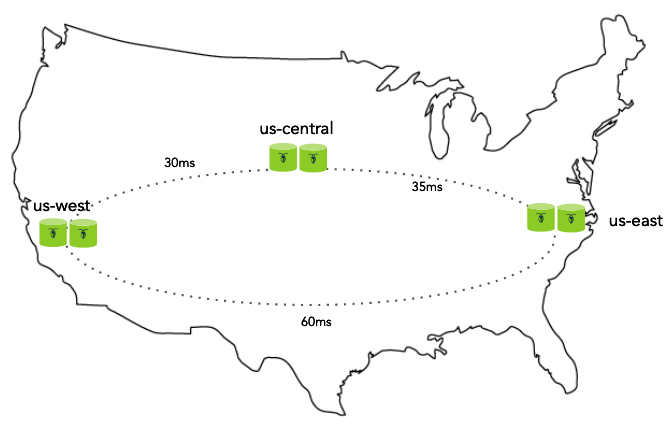
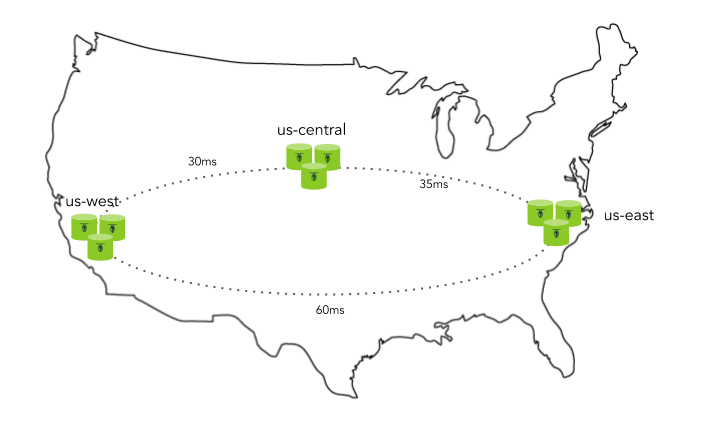
Multi-region topology pattern corrections
- Updates map image to show 3 nodes per region
- Corrects configuration bullet

Fixes #4578.

diff --git a/v19.1/cluster-topology-patterns.md b/v19.1/cluster-topology-patterns.md
@@ -25,7 +25,7 @@ This page does not factor in hardware differences.
 
 This first example is of a single-datacenter cluster, with each node on a different machine as per our [basic topology recommendations](recommended-production-settings.html#basic-topology-recommendations). This pattern is common starting point for smaller organizations who may not have the resources (or need) to worry about a datacenter failure but still want to take advantage of CockroachDB's [high availability](high-availability.html).
 
-<img src="{{ 'images/v19.1/topology-patterns/basic-local-deployment.png' | relative_url }}" alt="Local deployment" style="border:1px solid #eee;max-width:100%" />
+<img src="{{ 'images/v19.1/topology-patterns/basic-local-deployment.png' | relative_url }}" alt="Local deployment" style="max-width:100%" />
 
 For the diagram above:
 
@@ -54,7 +54,7 @@ While the [basic single-datacenter deployment](#single-datacenter-basic-pattern)
 
 There are no constraints on node increments.
 
-<img src="{{ 'images/v19.1/topology-patterns/local-scaling.png' | relative_url }}" alt="Resilient local deployment" style="border:1px solid #eee;max-width:100%" />
+<img src="{{ 'images/v19.1/topology-patterns/local-scaling.png' | relative_url }}" alt="Resilient local deployment" style="max-width:100%" />
 
 ## Multi-region clusters
 
@@ -62,13 +62,13 @@ There are no constraints on node increments.
 
 Once an organization begins to grow, a datacenter outage isn't acceptable and a cluster needs to be available all of the time. This is where a multi-region cluster is useful. A multi-region cluster is comprised of multiple datacenters in different regions (e.g., `us-east`, `us-west`), each with multiple nodes. CockroachDB will automatically try to diversify replica placement across localities (i.e., place a replica in each region). This setup can be used when your application is not SLA-sensitive, or you do not care about write performance. With this cluster pattern, many organizations will consider transitioning to using a variety of cloud providers (one provider per region).
 
-In this example, the cluster has an asymmetrical setup where `Central` is closer to the `West` than the `East`. This configuration will provide better write latency to the write workloads in the `West` and `Central` because there is a lower latency (versus writing in the `East`).
+In this example, the cluster has an asymmetrical setup where `us-central` is closer to the `us-west` than the `us-east`. This configuration will provide better write latency to the write workloads in `us-west` and `us-central` because there is a lower latency (versus writing in the `us-east`).
 
-<img src="{{ 'images/v19.1/topology-patterns/basic-multi-region.png' | relative_url }}" alt="Basic pattern for multi-region" style="border:1px solid #eee;max-width:100%" />
+<img src="{{ 'images/v19.1/topology-patterns/basic-multi-region.png' | relative_url }}" alt="Basic pattern for multi-region" style="max-width:100%" />
 
 Each region has 3 nodes across 3 datacenters and does not use partitioning:
 
-<img src="{{ 'images/v19.1/topology-patterns/basic-multi-region-layout.png' | relative_url }}" alt="Basic pattern for multi-region" style="border:1px solid #eee;max-width:100%" />
+<img src="{{ 'images/v19.1/topology-patterns/basic-multi-region-layout.png' | relative_url }}" alt="Basic pattern for multi-region" style="max-width:100%" />
 
 For this example:
 
@@ -77,8 +77,8 @@ For this example:
 - `App` is an application that accesses CockroachDB.
 - `Load Balancer`s are software-based load balancers that direct traffic to each of the regions' nodes at random.
 - Leaseholders are denoted by a dashed line.
-- 6 Nodes are spread across 3 regions (`us-west`, `us-central`, `us-east`) within a country (`us`).
-- Every region has 3 nodes across 3 datacenters (e.g., `us-west-a`, `us-west-b`, `us-west-c`). Each node is started with the `--locality` flag to identify which region it is in:
+- 9 nodes are spread across 3 regions (`us-west`, `us-central`, `us-east`) within a country (`us`).
+- Every region has 3 nodes, with each node in a different datacenter (e.g., `us-west-a`, `us-west-b`, `us-west-c`). Each node is started with the `--locality` flag to identify which region and datacenter it is in:
 
     ~~~
     --locality=region=us-west,datacenter=us-west-a
@@ -116,7 +116,7 @@ In this example, a table is partitioned by a column indicating the region where 
 
 This setup uses a modern [multi-tier architecture](https://en.wikipedia.org/wiki/Multitier_architecture), which is simplified to global server load balancer (`GSLB`), `App`, and `Load Balancer` layers in the below diagram:
 
-<img src="{{ 'images/v19.1/topology-patterns/multi-region-partition.png' | relative_url }}" alt="Partitioned multi-region" style="border:1px solid #eee;max-width:100%" />
+<img src="{{ 'images/v19.1/topology-patterns/multi-region-partition.png' | relative_url }}" alt="Partitioned multi-region" style="max-width:100%" />
 
 **Configuration**
 
